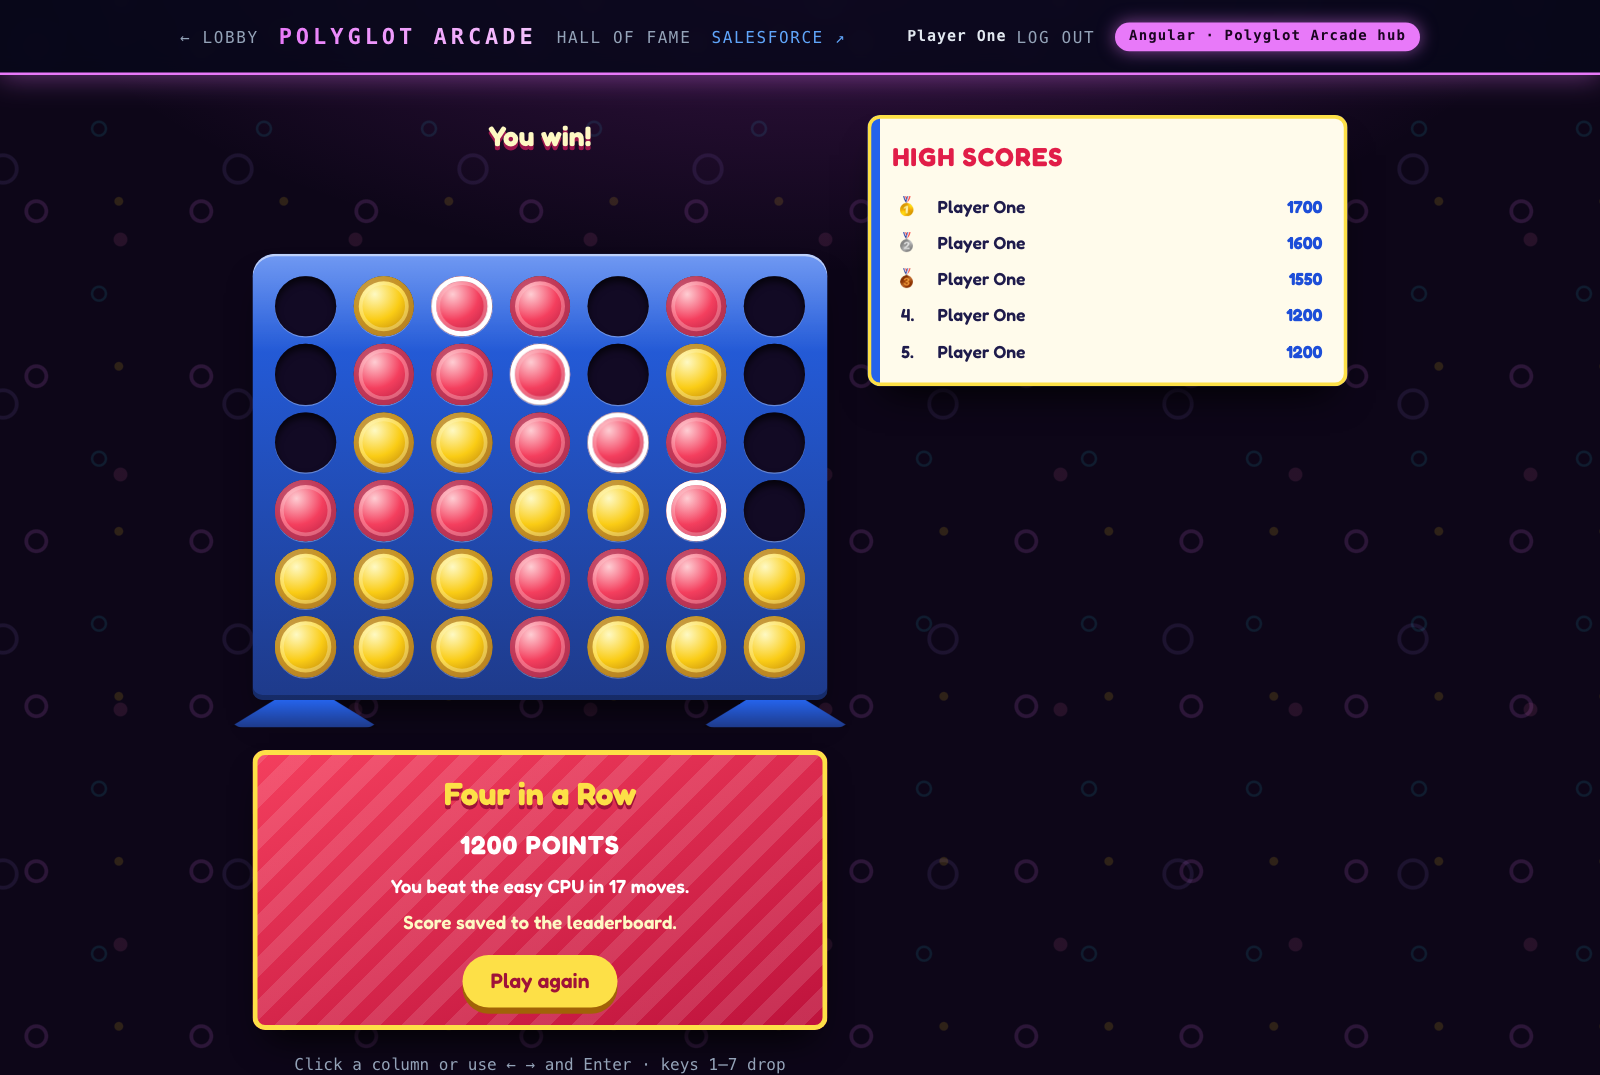
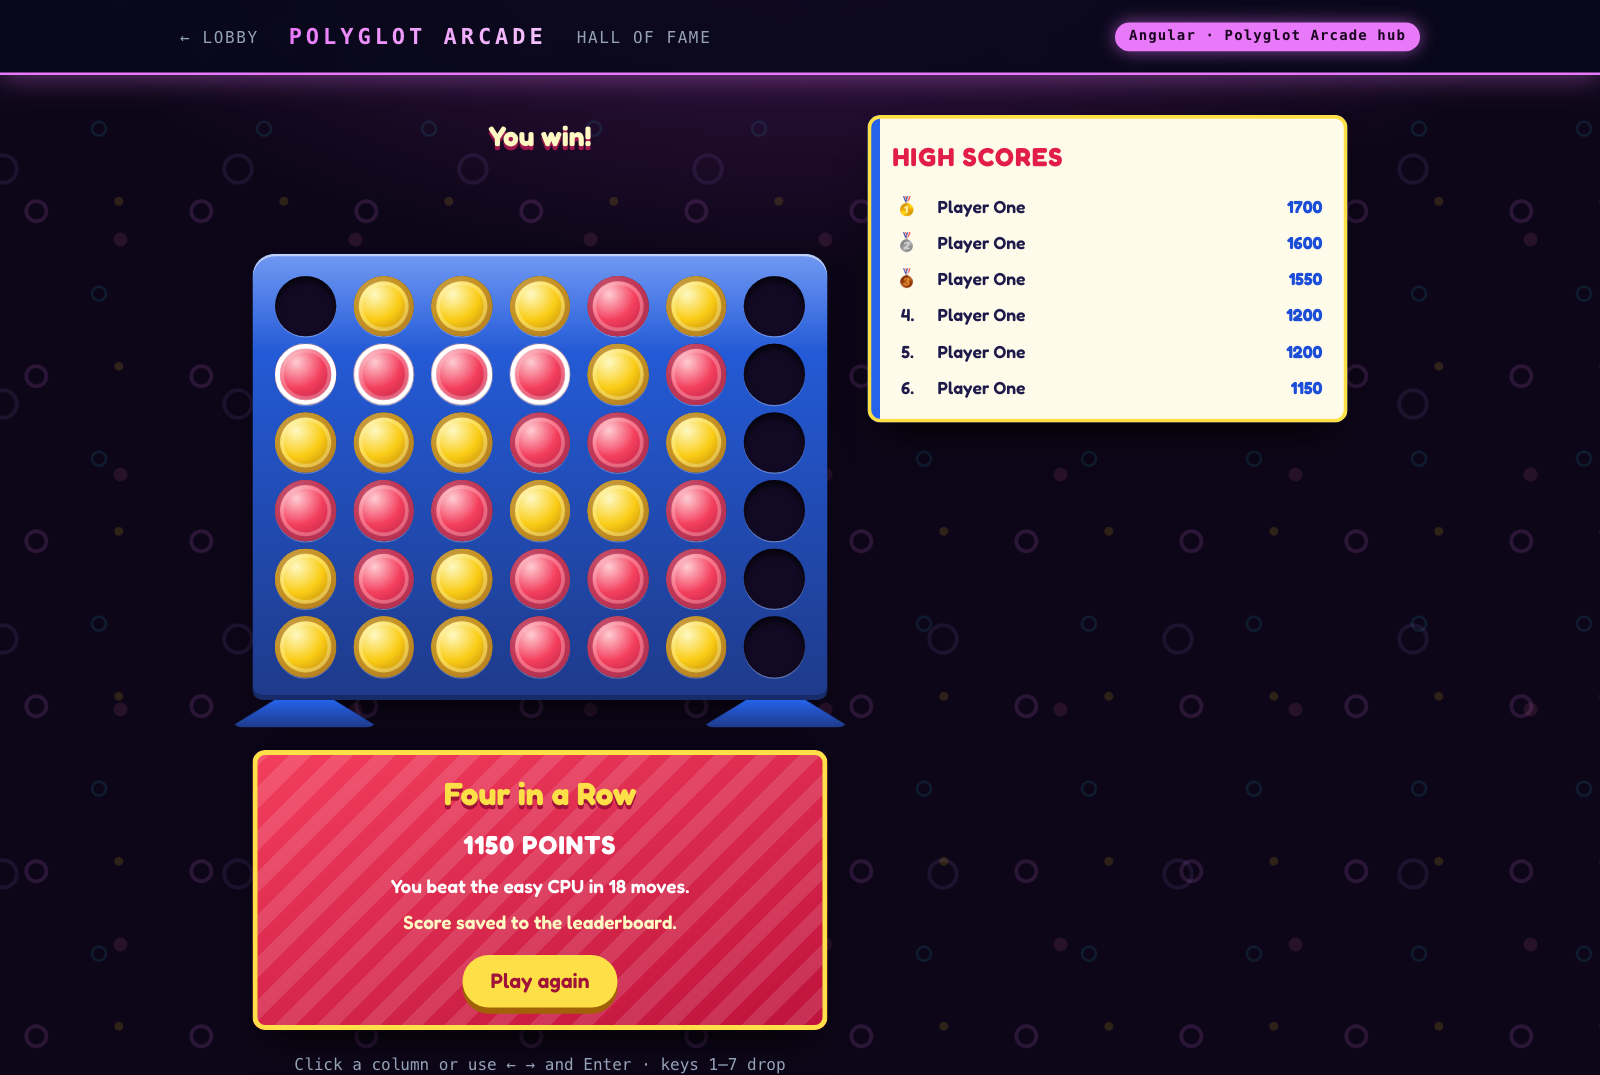
docs(machines): footer row and refreshed screenshots

diff --git a/docs/decisions/0002-surfaces-and-machines.md b/docs/decisions/0002-surfaces-and-machines.md
@@ -14,10 +14,10 @@ Polyglot Arcade exists to show Salesforce Multi-Framework. That two frameworks r
 
 **Same hall, different machines - and two halls, one bar.** There are two levels of identity:
 
-| Level   | What is shared                                                                                                             | What is its own                                                                                                                                                                                                            |
-| ------- | -------------------------------------------------------------------------------------------------------------------------- | -------------------------------------------------------------------------------------------------------------------------------------------------------------------------------------------------------------------------- |
-| Surface | The marquee bar's layout (`← Lobby`, logo, `Salesforce ↗`, player, badge), base tokens, round result and high-score markup | A surface color and a room: the Angular hub is a **magenta arcade hall** with a carpet pattern, the React cabinet a **cyan machine room** with a blueprint grid. Lightning's Arcade Floor is **blue**.                     |
-| Machine | Nothing but the data: score, level, the leaderboard rows                                                                   | Cabinet, screen, HUD, controls, result screen and high-score card: an upright CRT cabinet (Pellet Chase), a handheld brick game (Block Drop), a console on a wood-grain TV (Brick Breaker), a tabletop toy (Four in a Row) |
+| Level   | What is shared                                                                                                                                         | What is its own                                                                                                                                                                                                            |
+| ------- | ------------------------------------------------------------------------------------------------------------------------------------------------------ | -------------------------------------------------------------------------------------------------------------------------------------------------------------------------------------------------------------------------- |
+| Surface | The marquee bar's layout (`← Lobby`, logo, badge), the footer row (`Salesforce ↗`, player, `Log out`), base tokens, round result and high-score markup | A surface color and a room: the Angular hub is a **magenta arcade hall** with a carpet pattern, the React cabinet a **cyan machine room** with a blueprint grid. Lightning's Arcade Floor is **blue**.                     |
+| Machine | Nothing but the data: score, level, the leaderboard rows                                                                                               | Cabinet, screen, HUD, controls, result screen and high-score card: an upright CRT cabinet (Pellet Chase), a handheld brick game (Block Drop), a console on a wood-grain TV (Brick Breaker), a tabletop toy (Four in a Row) |
 
 The surface colors are used wherever a surface is named: the marquee bar and badge, a legend and a "Lives in" line on every lobby card, the launch buttons (they take the color of the surface they open), the source of each round in the hall of fame, and a slim `React · Pixel Cabinet UI bundle` tag below the compact machine that Lightning frames at `/embed`.
 
@@ -29,7 +29,7 @@ How it is built:
 - Teaser marquees in the lobby are pixel art per `Game_Key__c`, kept as data in the hub (`games/marquees.ts`) and drawn as SVG, so they need no asset path. Unknown games keep the plain card.
 - Game rules stay untouched in `engine.ts`. Canvas games only changed how they draw (an LCD for Block Drop, chunky 80s colors for Brick Breaker); scanlines and glare are CSS overlays above the canvas.
 - Nothing in a machine is sized by the viewport, and flicker, blinking lights and bounces stop under `prefers-reduced-motion`. Machines fit a 1280 × 860 window below the bar; the Pellet Chase cabinet is cut off below its control panel for that.
-- The marquee bar is sticky. It shows the player (`uiapi.currentUser`) and `Log out` (`/secur/logout.jsp`), so the platform's "Logged in as" banner is switched off with `<meta name="sf-session-banner" content="disabled">` in both `index.html` files - also inside the Lightning frame, where Lightning already shows who is logged in.
+- The marquee bar is sticky and stays as lean as before. A row below the footer credits holds `Salesforce ↗`, the player (`uiapi.currentUser`) and `Log out` (`/secur/logout.jsp`), so the platform's "Logged in as" banner is switched off with `<meta name="sf-session-banner" content="disabled">` in both `index.html` files - also inside the Lightning frame, where Lightning already shows who is logged in.
 
 ## Consequences
 

diff --git a/README.md b/README.md
@@ -114,7 +114,7 @@ Every surface has one role (see [ADR 0001](docs/decisions/0001-surface-roles.md)
 | **Pixel Cabinet** (React UI bundle)     | cyan machine room   | A machine, not a second hub. It has no lobby: opening it sends the player to the hub lobby. The hub launches its games at `/play/<game>`, Lightning frames them at `/embed`.                                                                    |
 | **Arcade Floor** (Lightning app)        | blue                | Where microfrontends are composed: the **Snake** page with the Snake and its leaderboard, and the **Arcade Account** record page (app default for Accounts) with the cabinet and the Account's leaderboard. Rounds there count for the Account. |
 
-Every standalone page starts with the same marquee bar, which stays on top while the page scrolls: `← Lobby`, `Salesforce ↗` (the way out to the Arcade Floor app in Lightning), the player with `Log out`, and a badge naming the surface (`Angular · Polyglot Arcade hub`, `React · Pixel Cabinet UI bundle`). The player and `Log out` replace the platform's session banner, which both bundles switch off with `<meta name="sf-session-banner" content="disabled">`. The bar is laid out the same everywhere but glows in the color of its surface, and the room below it is the surface's own: the hub is a magenta arcade hall, the cabinet a cyan machine room. Lobby cards, launch buttons and the hall of fame use the same colors to say where a game lives and where a round was played, and the embedded cabinet carries a slim `React · Pixel Cabinet UI bundle` tag inside the Lightning frame. A switch between bundles is visible instead of feeling like a break (see [ADR 0002](docs/decisions/0002-surfaces-and-machines.md)). In Lightning, the host card links back with `← Polyglot Arcade`.
+Every standalone page starts with the same marquee bar, which stays on top while the page scrolls: `← Lobby` and a badge naming the surface (`Angular · Polyglot Arcade hub`, `React · Pixel Cabinet UI bundle`). The footer below adds `Salesforce ↗` (the way out to the Arcade Floor app in Lightning), the player and `Log out`; these replace the platform's session banner, which both bundles switch off with `<meta name="sf-session-banner" content="disabled">`. The bar is laid out the same everywhere but glows in the color of its surface, and the room below it is the surface's own: the hub is a magenta arcade hall, the cabinet a cyan machine room. Lobby cards, launch buttons and the hall of fame use the same colors to say where a game lives and where a round was played, and the embedded cabinet carries a slim `React · Pixel Cabinet UI bundle` tag inside the Lightning frame. A switch between bundles is visible instead of feeling like a break (see [ADR 0002](docs/decisions/0002-surfaces-and-machines.md)). In Lightning, the host card links back with `← Polyglot Arcade`.
 
 The demo covers four integration patterns:
 

diff --git a/docs/decisions/0001-surface-roles.md b/docs/decisions/0001-surface-roles.md
@@ -34,7 +34,7 @@ Navigation between the surfaces:
 
 - **Shared marquee bar.** Every standalone UI bundle page starts with the same bar: `← Lobby` and a badge naming the surface (`Angular · Polyglot Arcade hub`, `React · Pixel Cabinet UI bundle`). It is the one piece of chrome the bundles deliberately share (`arcade.css` in both bundles). The switch between bundles stays visible as a feature, not as a break.
 - **Hub → cabinet:** the App URL on the React game records (unchanged).
-- **Hub → Lightning:** `SFDC_ENV.orgUrl` plus `/lightning/app/c__arcadeFloor/n/<tab>`. Since v0.7.0 the marquee bar of both bundles also has a `Salesforce ↗` link to the Arcade Floor app itself.
+- **Hub → Lightning:** `SFDC_ENV.orgUrl` plus `/lightning/app/c__arcadeFloor/n/<tab>`. Since v0.7.0 the footer of both bundles also has a `Salesforce ↗` link to the Arcade Floor app itself.
 - **Cabinet → hub:** derived from the cabinet's own base path, no stored URL.
 - **Lightning → hub:** a `← Polyglot Arcade` action on the `arcadeGameHost` card. The hub URL is the App URL of the Angular game records, stored by `npm run connect`. Every game record now says where its game lives.
 
